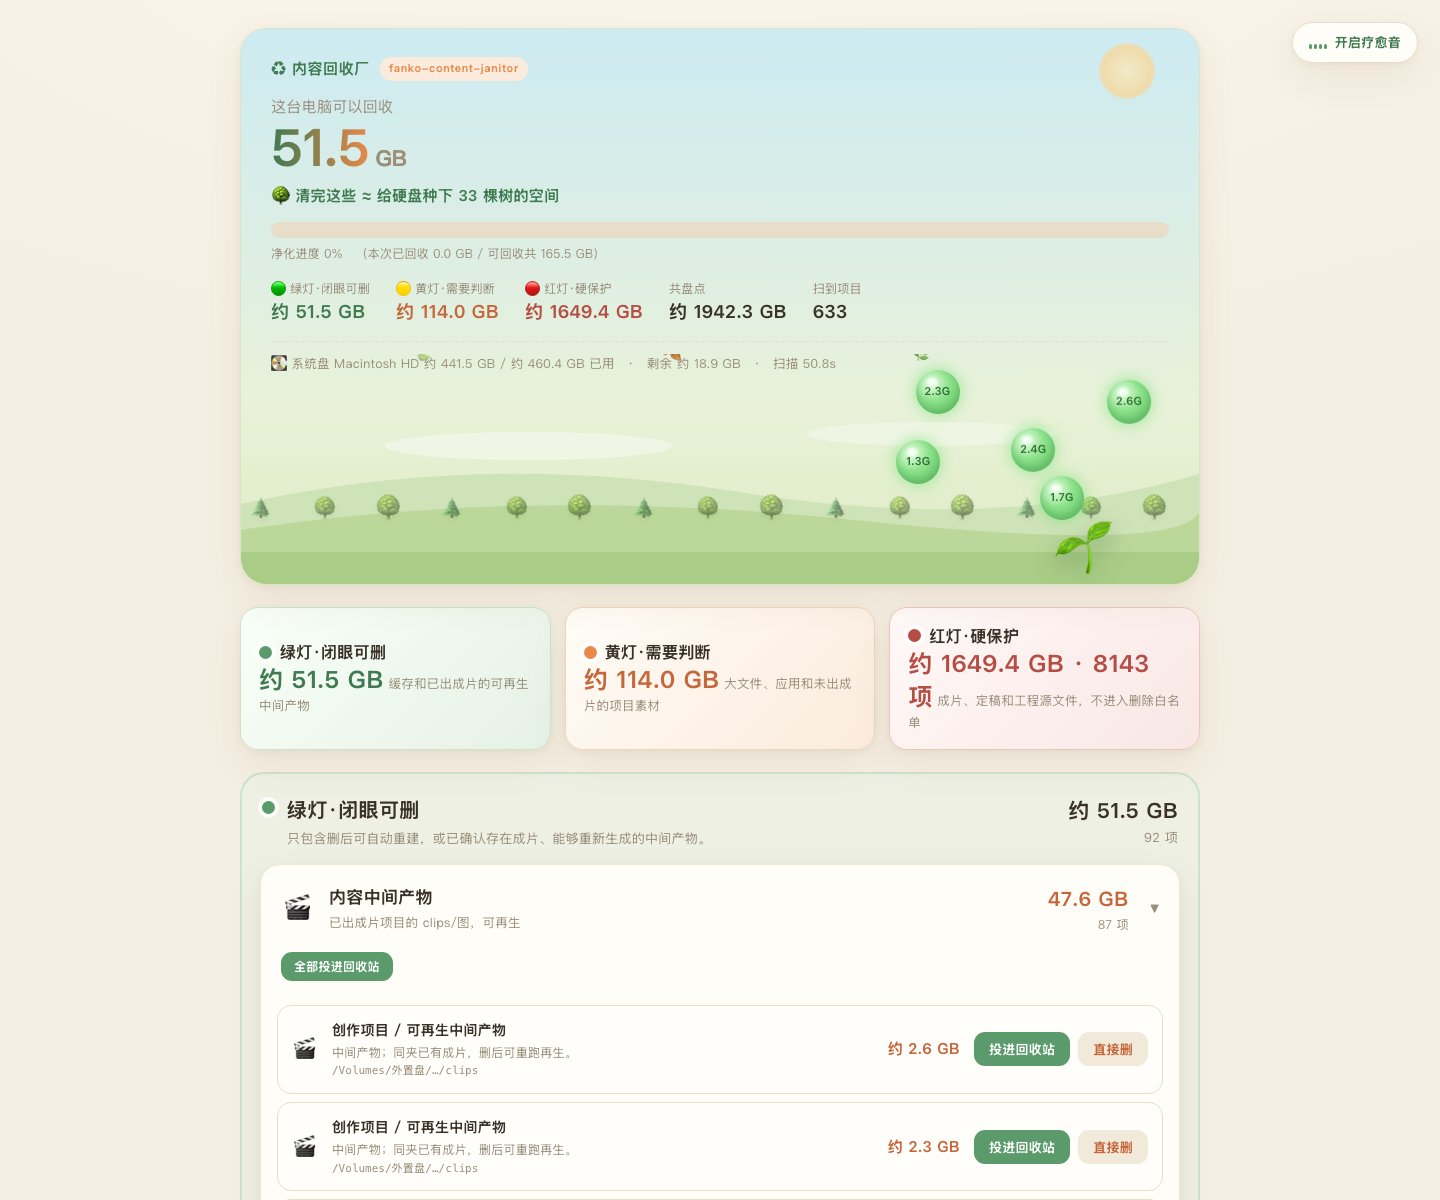
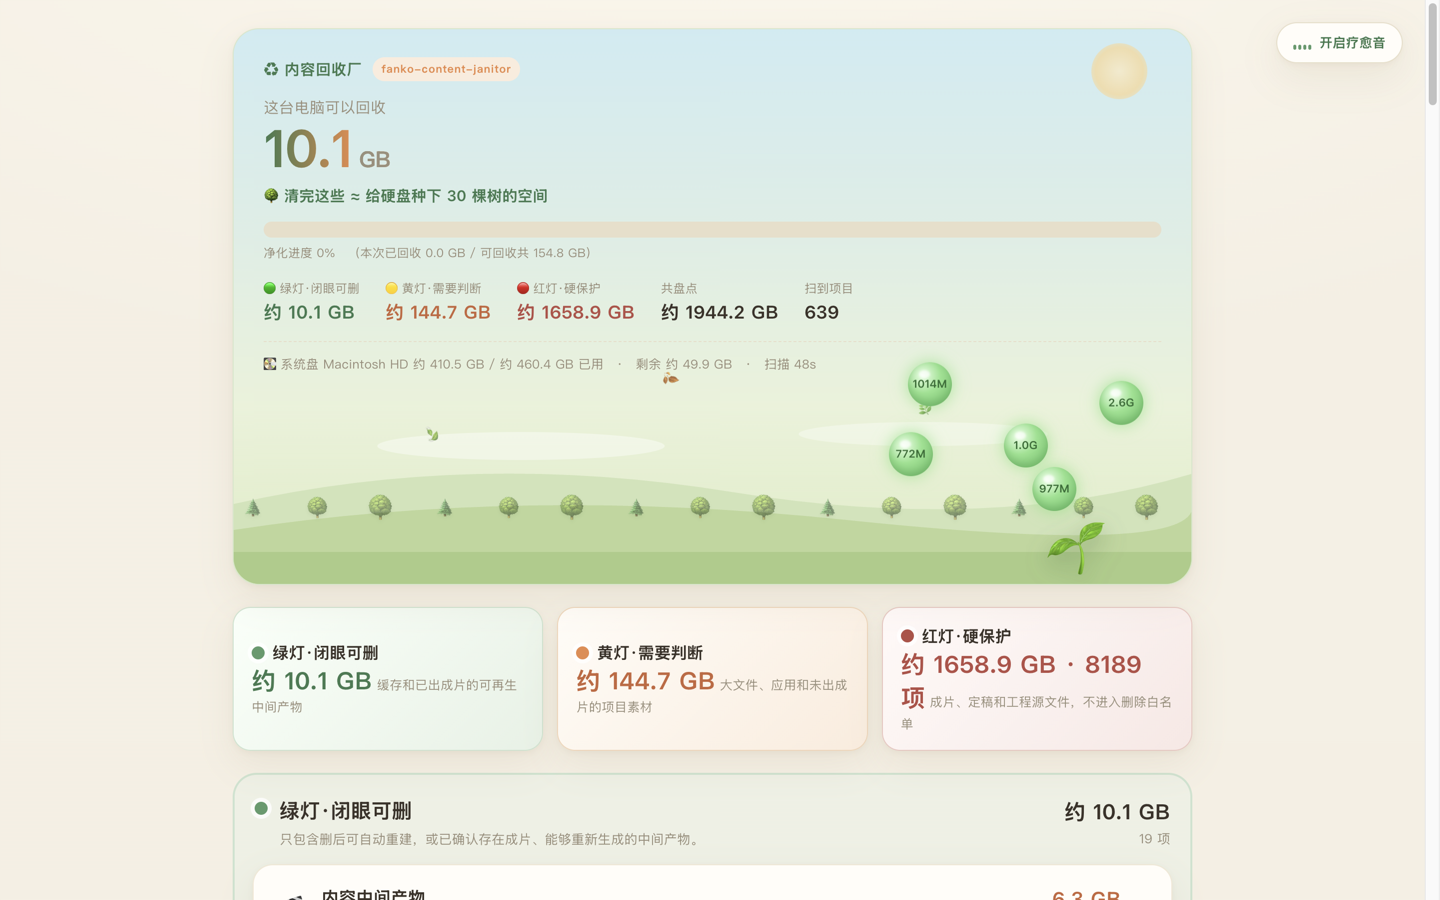
docs: 更新安全修复后的真实扫描截图

Changed region(s): [[0.1562, 0.0, 0.8438, 1.0], [0.875, 0.0, 1.0, 0.1244]]

diff --git a/README.md b/README.md
@@ -20,6 +20,8 @@
   <img src="docs/screenshot.png" width="780" alt="内容回收厂 · 蚂蚁森林式清理报告：可回收空间大数字 + 能量球 + 会长大的树 + 回收台分类">
 </p>
 
+> 截图来自 2026-07-26 的真实全盘复扫。收紧「成片保险丝」后，未明确出片的项目从绿灯降为黄灯：绿灯 10.1 GB、黄灯 144.7 GB、红灯 1658.9 GB，共盘点 1944.2 GB。
+
 ## 📋 目录
 
 [✨ 亮点](#-亮点为什么用它) · [🎯 它解决什么](#-它解决什么) · [⚔ 和普通清理工具比](#-和普通清理工具比) · [🚀 快速开始](#-快速开始macos) · [🗂 回收台分类](#-回收台分类) · [🔒 安全模型](#-安全模型) · [⚙ 配置](#-配置-channelsjson) · [🌟 关于作者](#-关于作者--fanko-ai-范式)

diff --git a/README.en.md b/README.en.md
@@ -19,6 +19,8 @@ An open-source **Agent Skill / standalone script** that read-only scans your who
   <img src="docs/screenshot.png" width="780" alt="Content Janitor — Ant-Forest style cleanup report">
 </p>
 
+> The screenshot is from a real full-disk rescan on 2026-07-26. After tightening the finished-project safety fuse, projects without an explicit final were downgraded from green to yellow: 10.1 GB green, 144.7 GB yellow, 1658.9 GB red, 1944.2 GB audited in total.
+
 ## ✨ Highlights
 
 - **🎮 Cleanup = growing a tree** — reclaimable items become glowing **energy orbs**; tap to collect → orb flies in → particles burst → the central tree grows (🌱→🌿→🌳→blossom).
